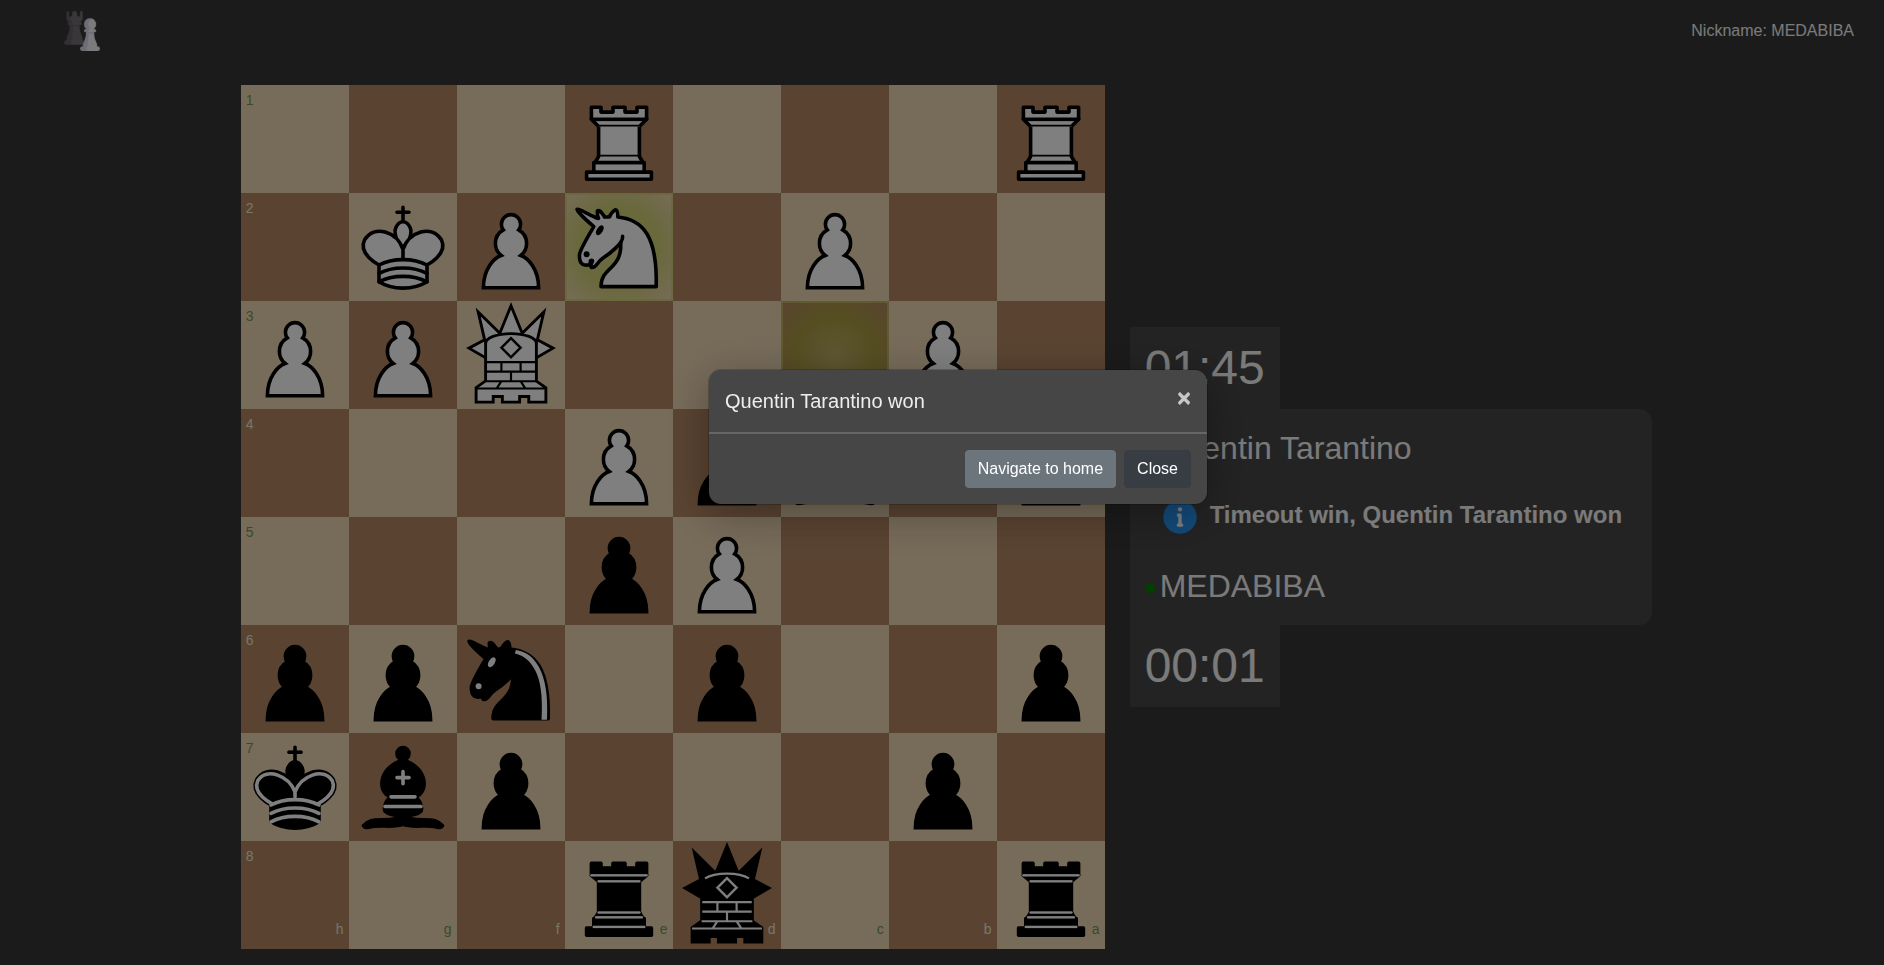
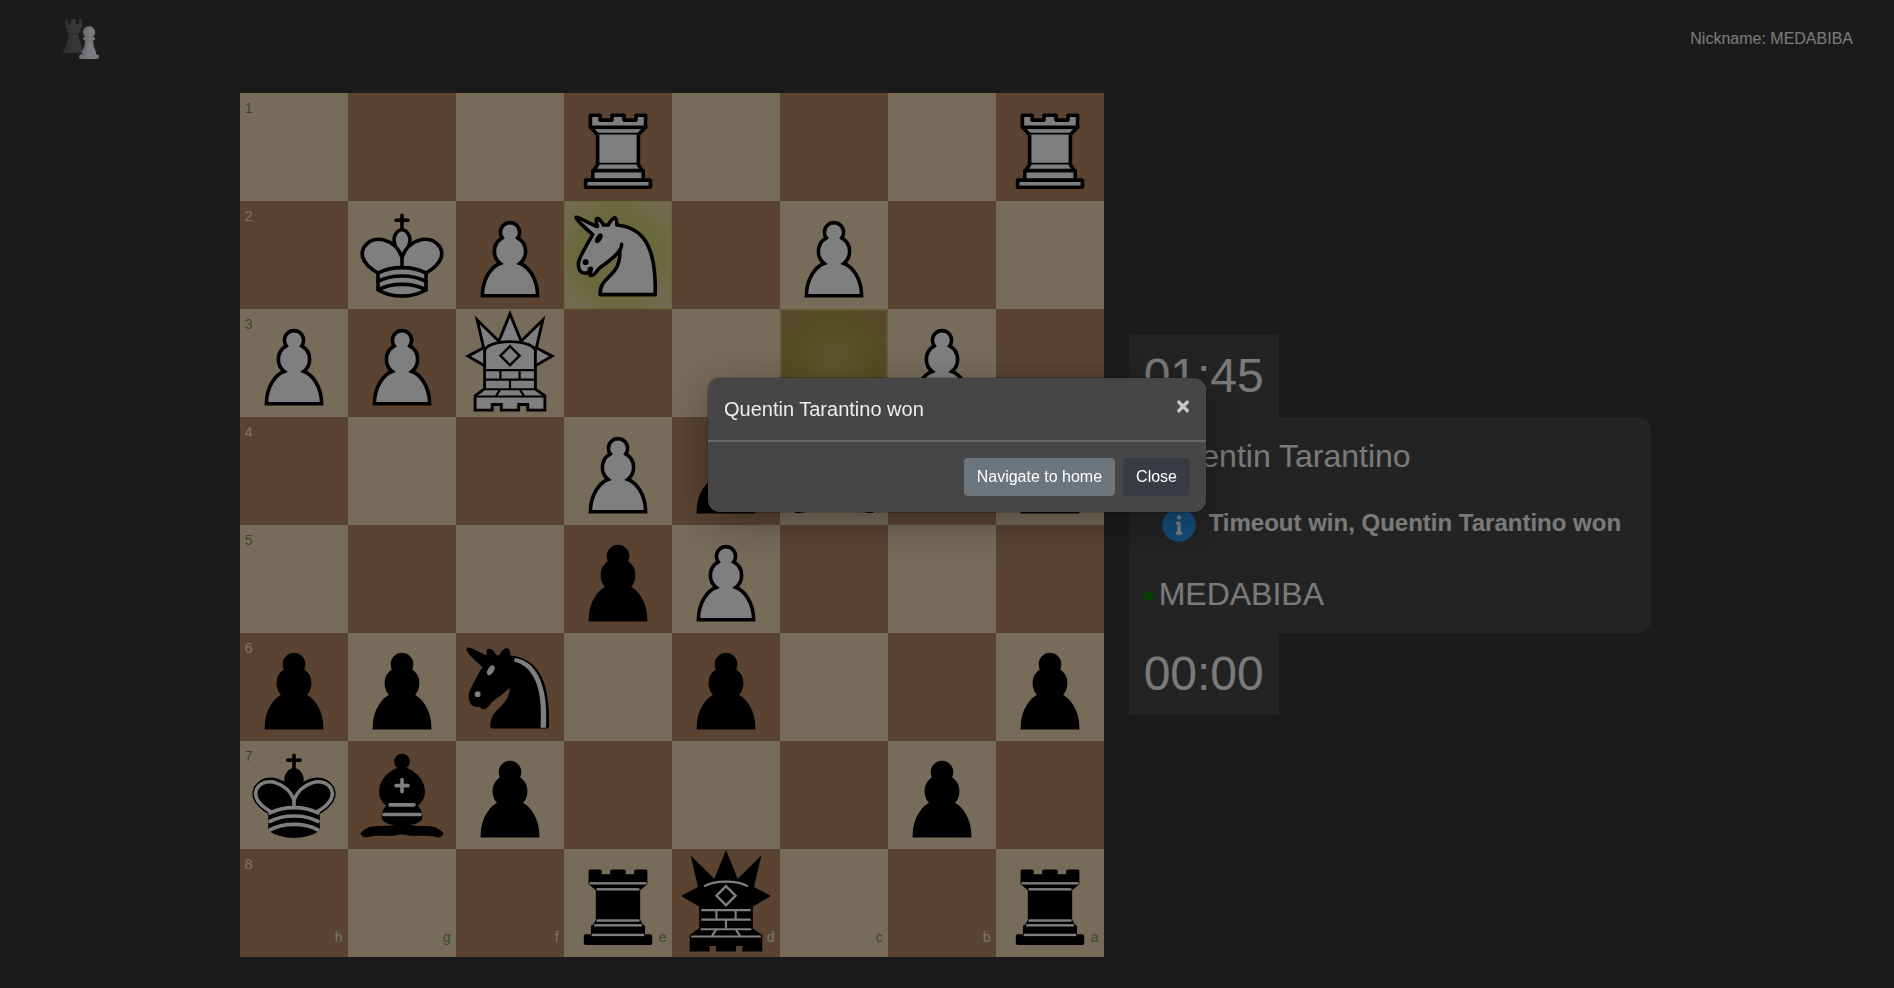
Update README

diff --git a/README.md b/README.md
@@ -1,6 +1,6 @@
-# **Chess**
-
 <div align="center">
+
+# **Chess**
 
 [![Yarn](https://img.shields.io/badge/Yarn-Package%20Manager-3e3e3e?style=for-the-badge&logo=yarn)](https://yarnpkg.com/)
 [![TypeScript](https://img.shields.io/badge/TypeScript-Language-3e3e3e?style=for-the-badge&logo=typescript)](https://www.typescriptlang.org/)
@@ -143,6 +143,8 @@ Click to expand
 #### Gameplay
 
 ![Chessboard](screenshots/Chessboard.png)
+
+![Chessboard](screenshots/Timer-pulse.png)
 
 #### Game Over
 
